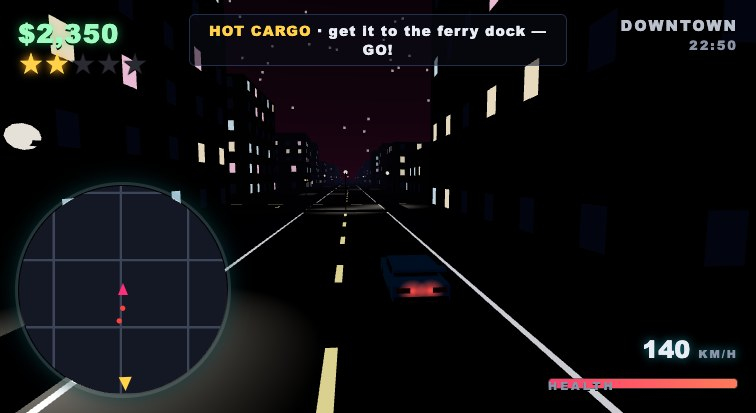
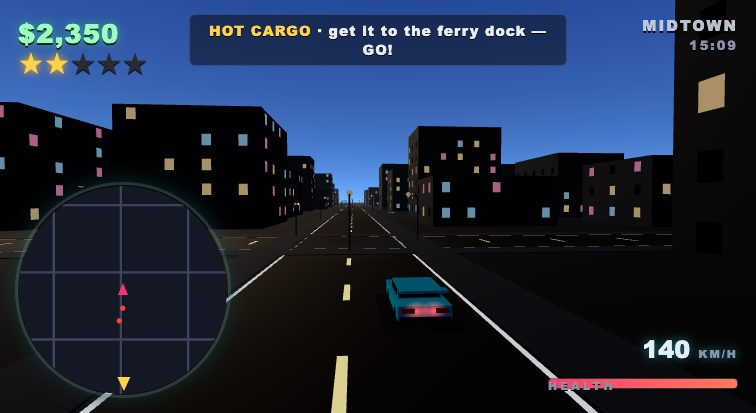
shot play: daytime chase

diff --git a/game/src/shots.js b/game/src/shots.js
@@ -43,8 +43,9 @@ export function setupShot(mode, ctx, seed) {
 
   if (mode === 'play') {
     // mid-chase: the player hammering down the neon strip, two cruisers with
-    // live lightbars stacked behind, full HUD on
-    world.tod = 0.16;
+    // live lightbars stacked behind, full HUD on — bright day so the chase
+    // reads on a store screenshot instead of a near-black frame
+    world.tod = 0.84;
     world.frozen = true;
     const stripX = GRID.lineAt(9);
     const car = ctx.enterShotCar('sports', 0x22e6ff, stripX + 3, 60, Math.PI);
@@ -58,12 +59,13 @@ export function setupShot(mode, ctx, seed) {
     hud.setMoney(2350, false);
     hud.setObjective('<b>HOT CARGO</b> · get it to the ferry dock — GO!');
     // chase cam locked low behind the car, looking down the street: the
-    // player's ride mid-frame, both cruisers stacked behind with lights live
+    // player's ride mid-frame, both cruisers stacked behind with lights live;
+    // pitched level so the dusk horizon sits mid-frame behind the skyline
     return {
       camOrbit: {
         getCenter: () => ({ x: car.x, z: car.z }),
-        phase: 1.75, speed: 0, r: 14, h: 4.6,
-        lookOz: -16, lookY: 2.2,
+        phase: 1.75, speed: 0, r: 15, h: 4.8,
+        lookOz: -22, lookY: 4.2,
       },
     };
   }
